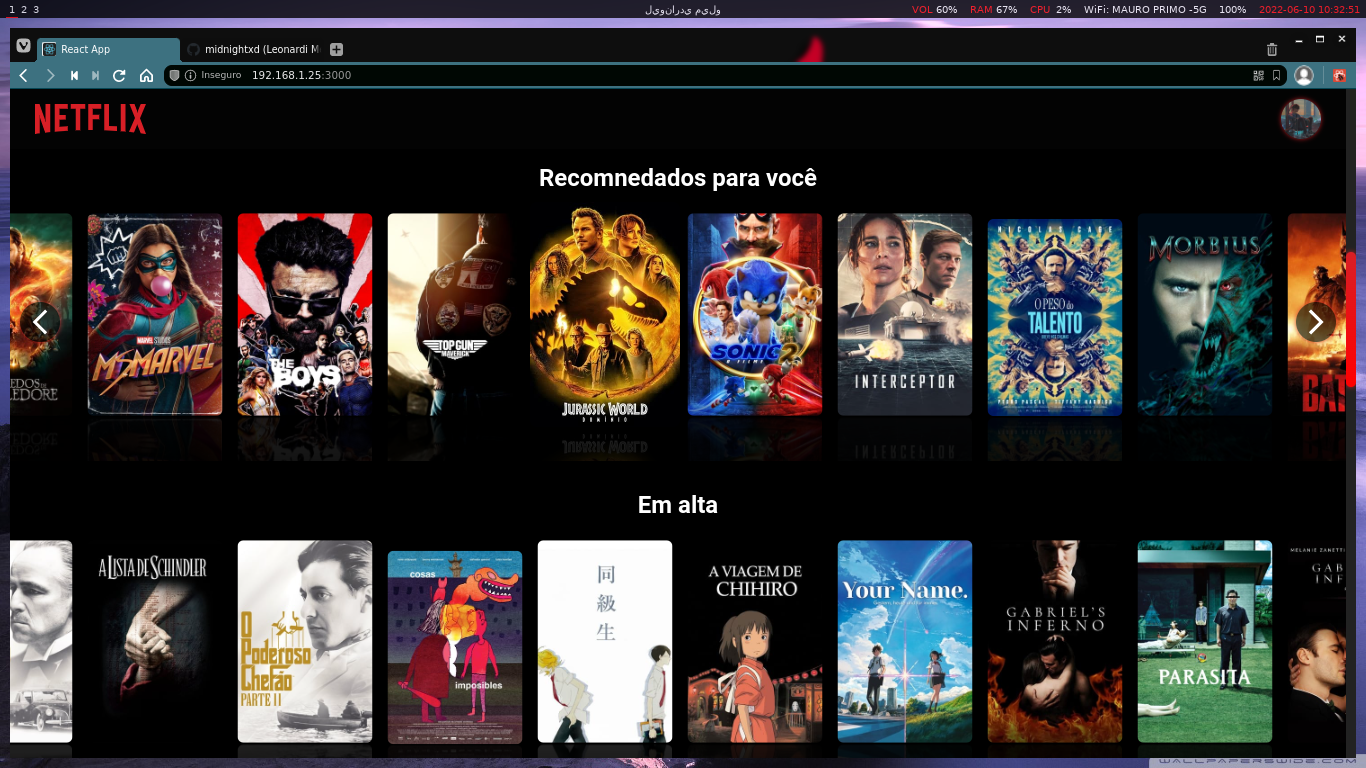
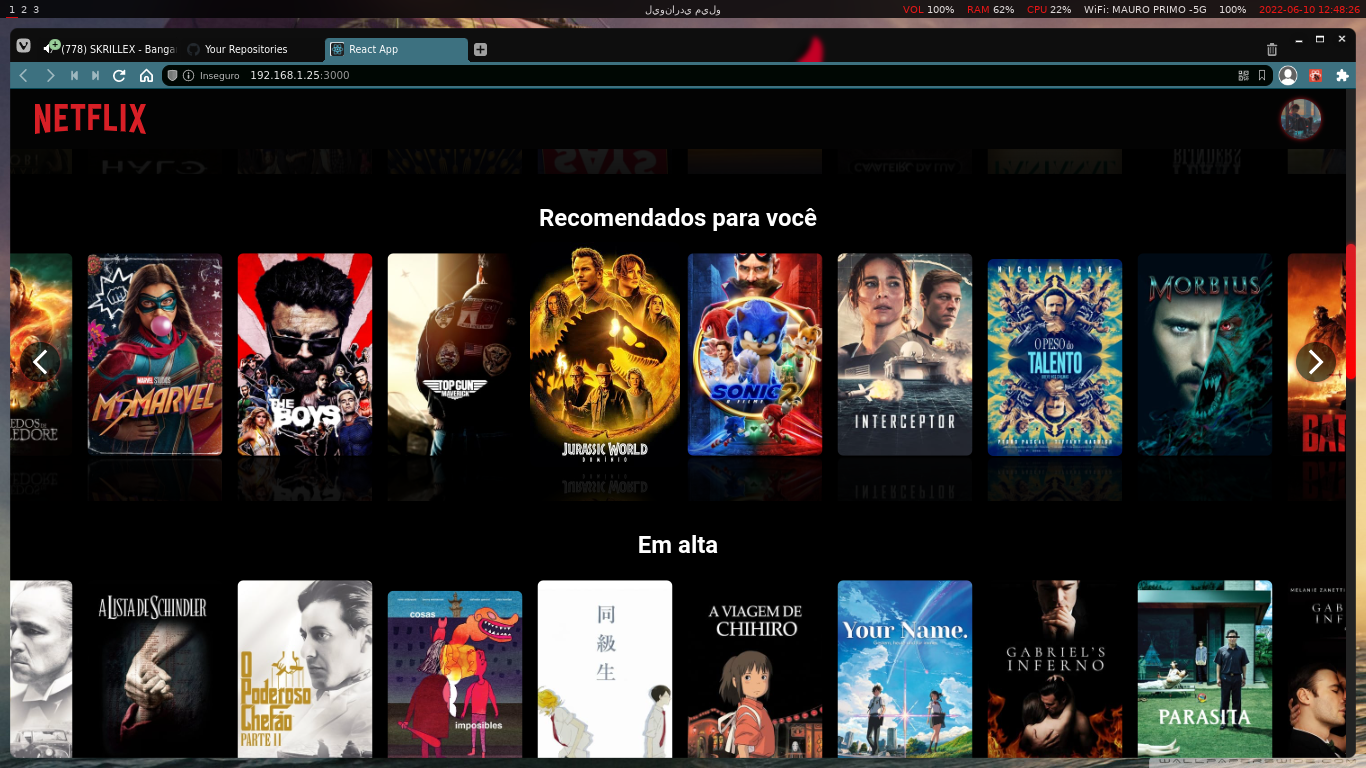
Resolved names

diff --git a/netflix-clone-ui/src/Tmdb.js b/netflix-clone-ui/src/Tmdb.js
@@ -20,7 +20,7 @@ export default {
       },
       {
         slug: "trending",
-        title: "Recomnedados para você",
+        title: "Recomendados para você",
         items: await basicFetch(
           `/trending/all/week?language=pt-BR&api_key=${API_KEY}`
         ),

diff --git a/README.md b/README.md
@@ -2,7 +2,7 @@
 ![Screenshot](1.png)
 ![Screenshot](2.png)
 
-### git clone https://github.com/midnightxd/netflix-clone.git
+> git clone https://github.com/midnightxd/netflix-clone.git<br>
 > cd netflix-clone/netflix-clone-ui/<br>
 > npm i<br>
 > npm start
